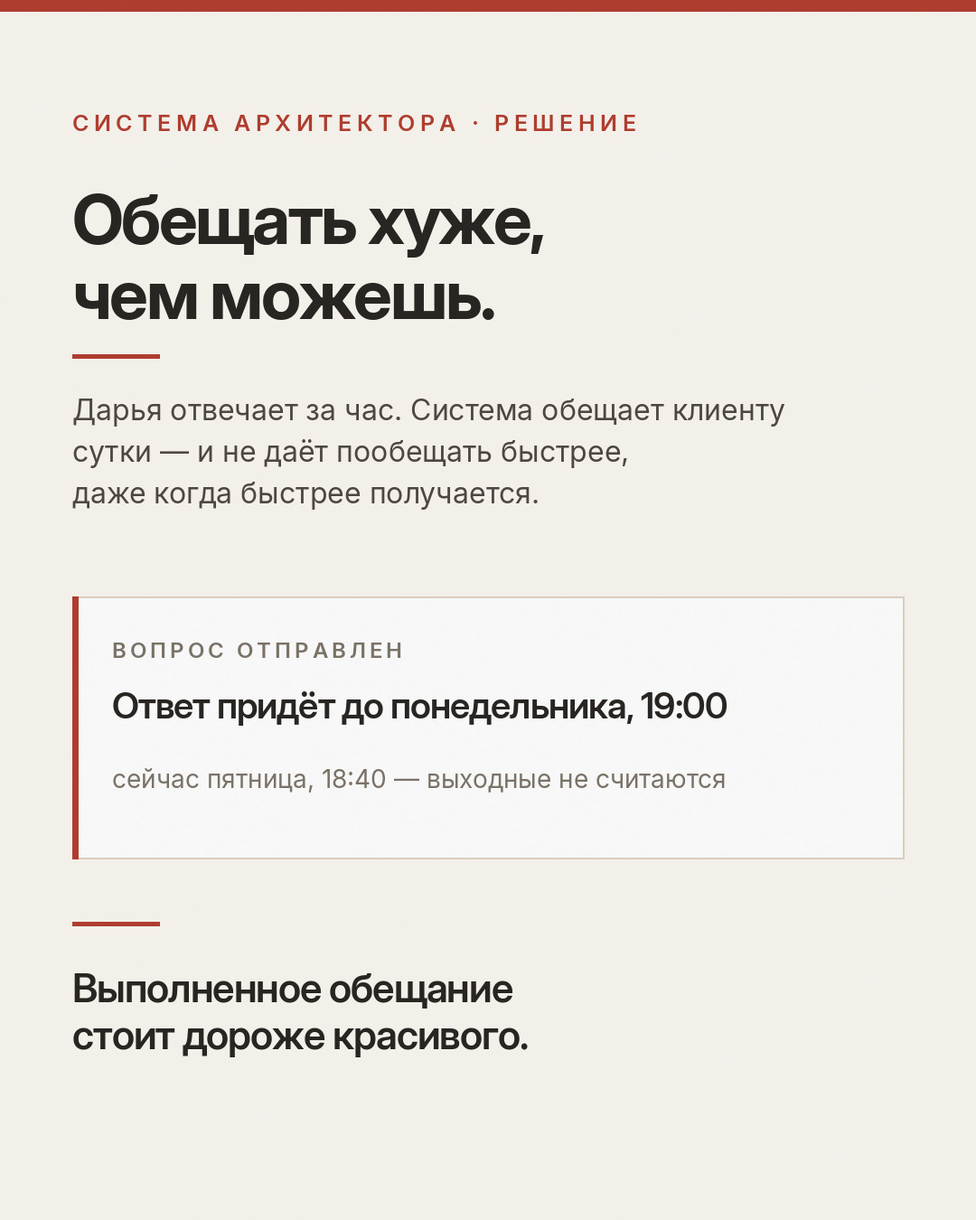
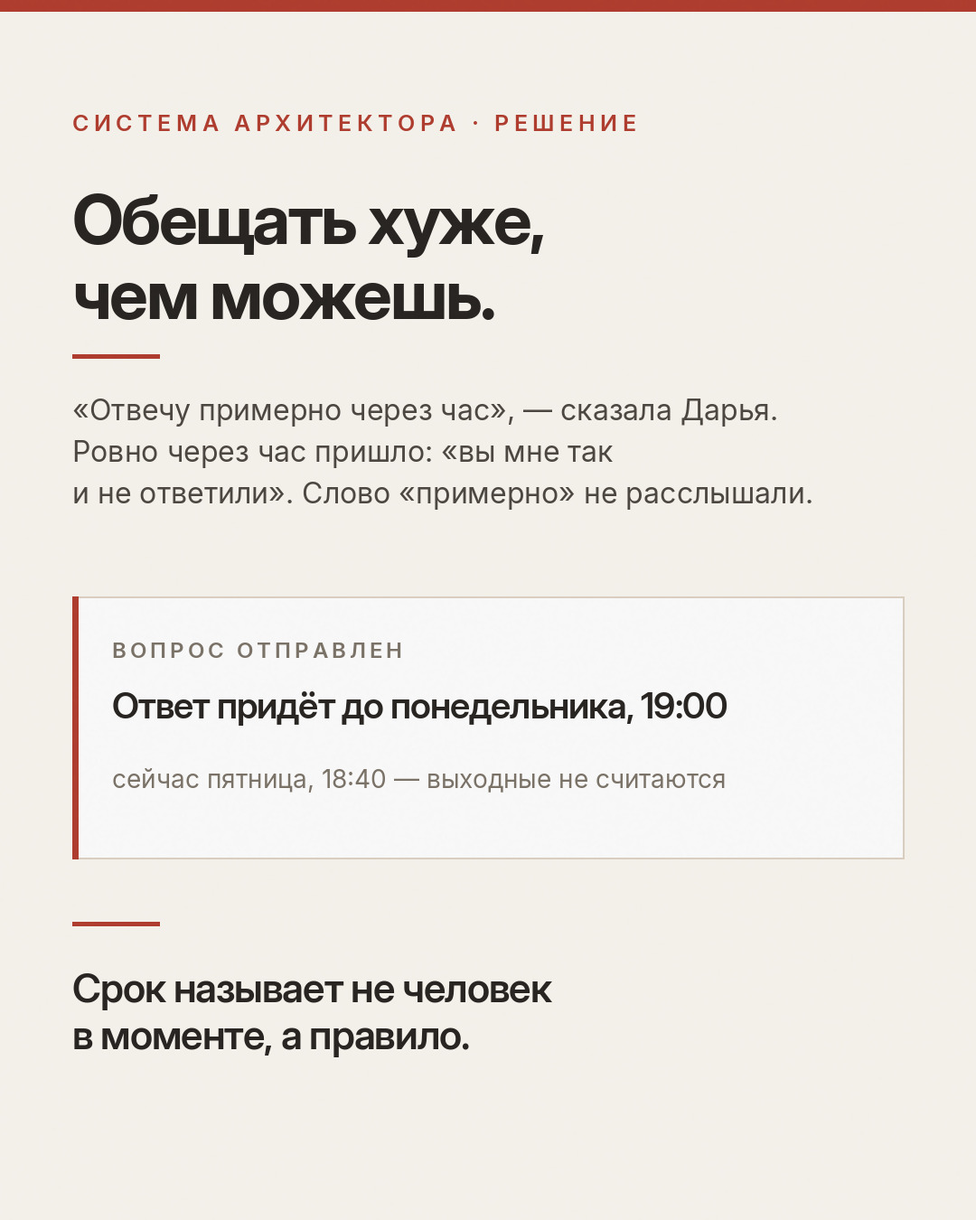
История с будильником рассказана точно, и урок в ней другой
Час назвала сама Дарья — «отвечу примерно через час», — а клиентка
засекла время и через час написала, что ответа нет. В коротком пересказе
это выглядело так, будто клиентка неадекватная, и весь урок пропадал.

Поворот меняет вывод целиком: виноват не клиент. В разговоре человек
всегда обещает лучше, чем может, — хорошим хочется быть сейчас,
а выполнять будет он же, уставший и с двумя другими проектами. Отсюда
правило: срок называет не человек в моменте, а регламент.

Поправлена и документация системы: в docs/03 история была записана
коротко, и следующий, кто её прочтёт, повторил бы ту же ошибку.

Claude-Session: https://claude.ai/code/session_01PW735Z2KYFykvmKHJc4ehd

Changed region(s): [[0.0611, 0.3111, 0.825, 0.4356], [0.0611, 0.7778, 0.5806, 0.8711]]

diff --git a/marketing/make_assets.py b/marketing/make_assets.py
@@ -643,7 +643,7 @@ def card_reglament():
     y += 30
     rule(d, CM, y, 96, BRAND, h=5)
     y += 42
-    block(d, "Дарья отвечает за час. Система обещает клиенту\nсутки — и не даёт пообещать быстрее,\nдаже когда быстрее получается.",
+    block(d, "«Отвечу примерно через час», — сказала Дарья.\nРовно через час пришло: «вы мне так\nи не ответили». Слово «примерно» не расслышали.",
           font(T_REG, 32), (CM, y, CW), INK_2, leading=1.44, tag="reg-t")
 
     # Кусок экрана: то, что видит заказчик в момент отправки вопроса.
@@ -657,7 +657,7 @@ def card_reglament():
           font(T_REG, 28), (bx + 44, by + 184, bw - 88), MUTED, leading=1.3, tag="reg-ui2")
 
     rule(d, CM, 1020, 96, BRAND, h=5)
-    block(d, "Выполненное обещание\nстоит дороже красивого.",
+    block(d, "Срок называет не человек\nв моменте, а правило.",
           font(D_SEMI, 44), (CM, 1066, CW), INK, leading=1.2, tracking=-1, tag="reg-q")
 
     save(im, "post-reglament.jpg")
@@ -675,7 +675,7 @@ def story_reglament():
           (M, 340, 1080 - 2 * M), INK, leading=1.1, tracking=-2.6, tag="rsty-h")
 
     y = 580
-    y = block(d, "Дарья отвечает за час.\nСистема обещает заказчику сутки —\nи не даёт пообещать быстрее.",
+    y = block(d, "«Отвечу примерно через час»,\nсказала Дарья. Ровно через час пришло:\n«вы мне так и не ответили».",
               font(T_REG, 38), (M, y, 1080 - 2 * M), INK_2, leading=1.46, tag="rsty-t")
 
     bx, by, bw, bh = M, 820, 1080 - 2 * M, 300
@@ -686,11 +686,11 @@ def story_reglament():
           font(D_SEMI, 44), (bx + 44, by + 104, bw - 88), INK, leading=1.2, tracking=-1, tag="rsty-ui")
 
     y = 1200
-    y = block(d, "Потому что обещание, выполненное всегда,\nстоит дороже обещания красивого.",
+    y = block(d, "Теперь срок называет не Дарья в моменте,\nа регламент — один и тот же для всех.",
               font(T_SEMI, 38), (M, y, 1080 - 2 * M), BRAND_600, leading=1.42, tag="rsty-a")
 
     d.rectangle([M, 1400, 1080 - M, 1660], fill=MARKER)
-    block(d, "Ответил в воскресенье один раз —\nи с этого дня этого ждут.\nА молчание читается как игнор.",
+    block(d, "«Примерно через час» — это\nне оценка. Это обещание,\nи его засекут.",
           font(T_SEMI, 36), (M + 44, 1458, 1080 - 2 * M - 88), INK, leading=1.42, tag="rsty-m")
 
     save(im, "story-reglament.jpg")

diff --git a/marketing/06-пост-регламент.md b/marketing/06-пост-регламент.md
@@ -9,20 +9,27 @@
 
 ## Telegram — основная версия
 
-> **Почему система архитектора обещает хуже, чем архитектор работает**
+> **Обещать хуже, чем можешь**
 >
-> У Дарьи, для которой я собирал систему, была клиентка. Она ставила
-> будильник на час после своего сообщения — и когда он звонил, писала:
-> «Дарья, вы мне так и не ответили».
+> У Дарьи, для которой я собирал систему, была клиентка. Ничего
+> ужасного она не делала. Она просто поверила на слово.
 >
-> Час.
+> Дарья писала ей: «отвечу примерно через час». Клиентка засекала время.
+> Ровно через час приходило: «Дарья, вы мне так и не ответили».
 >
-> Смешно ровно до того момента, пока это не случается с вами. Дальше
-> начинается настоящая ловушка: ответить нельзя и не ответить нельзя.
-> Ответишь — подтвердишь, что ты на связи за час, и теперь так будет
-> всегда. Не ответишь — ты игнорируешь человека, который заплатил.
+> Слово «примерно» не расслышал никто. Оно вообще не работает —
+> ни в одном разговоре с клиентом.
 >
-> Это не лечится характером. Это лечится фразой, написанной заранее.
+> **Обратите внимание, кто здесь виноват.** Не клиентка. Час назвала
+> сама Дарья. В моменте, из желания быть хорошей, без всякого злого
+> умысла — просто прикинула вслух.
+>
+> Это и есть ловушка, в которую попадают все, кто работает на себя:
+> **в разговоре человек всегда обещает лучше, чем может.** Хорошим
+> хочется быть сейчас. А выполнять будет он же — через три часа,
+> уставший, с двумя другими проектами и сорванным созвоном.
+>
+> Лечится это не характером. Лечится тем, что срок называет не человек.
 >
 > **Вот регламент Дарьи. Он стоит на сайте и в договоре дословно:**
 >
@@ -42,80 +49,78 @@
 >
 > Каждый, кто работает на себя, знает эту яму. Один раз ответил
 > в воскресенье по доброй воле — и с этого дня от тебя этого ждут.
-> Подарок за две недели превращается в норму, а потом в обязанность,
-> а потом твоё молчание в воскресенье читается как хамство.
+> Подарок через две недели становится нормой, ещё через месяц —
+> обязанностью, а потом твоё молчание в воскресенье читается как хамство.
 >
 > Одна оговорка возвращает воскресный ответ в статус подарка. Навсегда.
 >
 > **Дальше эта фраза стала кодом.**
 >
 > Когда заказчик отправляет вопрос через кабинет, он сразу видит срок
-> ответа. Не «мы свяжемся с вами» — конкретное «ответ придёт
+> ответа. Не «мы свяжемся с вами», а конкретное «ответ придёт
 > до понедельника, 19:00».
 >
-> Считается это не календарным временем, а рабочим. Вопрос в пятницу
-> в 18:40 получает срок до понедельника вечера, потому что суббота
-> и воскресенье в счёт не идут. Заказчик видит это в момент отправки,
-> а не узнаёт в понедельник, когда уже успел обидеться.
+> Считается рабочее время, а не календарное. Вопрос в пятницу в 18:40
+> получает срок до понедельника вечера, потому что суббота и воскресенье
+> в счёт не идут. Заказчик видит это в момент отправки — а не узнаёт
+> в понедельник, когда уже успел обидеться.
 >
 > Уведомления Дарье в выходные не уходят вообще. Накопились — придут
 > в понедельник в десять утра. Не потому что она не посмотрит телефон,
-> а потому что система не должна создавать повод посмотреть.
+> а потому что система не должна создавать повод его посмотреть.
 >
 > **И главное, из-за чего я вообще это пишу.**
 >
 > Система **никогда не обещает быстрее регламента** — даже когда Дарья
-> фактически отвечает за час. Это выглядит как самострел: у нас есть
-> преимущество, и мы его прячем.
+> фактически отвечает за час. Выглядит как самострел: есть преимущество,
+> и мы его прячем.
 >
-> Но посчитайте, что происходит в двух вариантах.
+> Но посчитайте оба варианта.
 >
-> Обещали час, ответили за час — норма, никто не заметил. Обещали час,
-> ответили за три — вы подвели.
+> Пообещал час, ответил за час — норма, никто не заметил. Пообещал час,
+> ответил за три — подвёл.
 >
-> Обещали сутки, ответили за час — вы молодец. Обещали сутки, ответили
-> за двадцать — вы сдержали слово.
+> Пообещал сутки, ответил за час — молодец. Пообещал сутки, ответил
+> за двадцать — сдержал слово.
 >
-> В первом варианте вы можете только не проиграть. Во втором вы можете
-> только выиграть. Разница не в скорости работы — скорость одна и та же.
-> Разница в том, что вы пообещали.
+> В первом варианте можно только не проиграть. Во втором — только
+> выиграть. Скорость работы одна и та же. Разница исключительно в том,
+> что было обещано.
 >
-> **Выполненное обещание стоит дороже красивого.** Это относится
-> не только к срокам ответа: к датам сдачи, к смете, к «да, успею».
-> Любое обещание, которое вы даёте от хорошего настроения, вы потом
-> выполняете в плохом.
+> **И обещание в системе Дарьи даёт не человек.** Его даёт правило,
+> написанное один раз, в спокойный день, когда никто не смотрит
+> с ожиданием и не хочется быть хорошим прямо сейчас.
 >
-> Поэтому в системе Дарьи обещания даёт не человек. Их даёт правило,
-> написанное один раз в спокойный день.
+> Такое правило можно написать себе сегодня. Бесплатно, за десять минут,
+> без всякой системы. Система нужна только для того, чтобы потом
+> не приходилось его помнить.
 
 ---
 
 ## Instagram — короче
 
-> **Клиентка ставила будильник на час после своего сообщения. Когда он
-> звонил, писала: «Вы мне так и не ответили».**
+> **«Отвечу примерно через час», — написала Дарья клиентке.**
 >
-> Час.
+> Клиентка засекла время. Ровно через час пришло: «Дарья, вы мне так
+> и не ответили».
 >
-> Ловушка тут в том, что ответить нельзя и не ответить нельзя. Ответишь —
-> подтвердишь, что ты на связи за час, и теперь так всегда. Не ответишь —
-> игнорируешь человека, который заплатил.
+> Слово «примерно» не расслышал никто. Оно вообще не работает.
 >
-> Лечится не характером, а фразой, написанной заранее. У Дарьи
-> в регламенте стоит: «иногда я отвечаю в нерабочее время, но это
-> не правило, а исключение». Одна оговорка возвращает воскресный ответ
-> в статус подарка — навсегда.
+> И обратите внимание, кто виноват: не клиентка. Час назвала сама
+> Дарья — в моменте, из желания быть хорошей. Это ловушка всех, кто
+> работает на себя: в разговоре человек всегда обещает лучше, чем может.
+> Хорошим хочется быть сейчас, а выполнять будет он же — уставший
+> и с двумя другими проектами.
 >
-> В системе это стало кодом: заказчик видит срок ответа в момент
-> отправки вопроса, и считается рабочее время, а не календарное.
-> Пятница, 18:40 → «ответ придёт до понедельника, 19:00».
+> Поэтому в её системе срок называет не человек, а правило. Заказчик
+> видит его в момент отправки вопроса, считается рабочее время:
+> пятница, 18:40 → «ответ придёт до понедельника, 19:00».
 >
-> И главное: система никогда не обещает быстрее регламента — даже когда
-> Дарья отвечает за час.
+> И система никогда не обещает быстрее регламента, даже когда Дарья
+> отвечает за час.
 >
-> Обещали час, ответили за час — норма. Обещали сутки, ответили за час —
-> вы молодец. Скорость одна и та же. Разница только в том,
-> что вы пообещали.
+> Пообещал час, ответил за час — норма. Пообещал сутки, ответил за час —
+> молодец. Скорость одна. Разница только в обещании.
 >
 > #малыйбизнес #системадлябизнеса #предприниматель #клиентскийсервис
 
@@ -125,28 +130,33 @@
 
 Берите версию для Telegram целиком и добавьте в конце вопрос:
 
-> А у вас есть такое написанное правило? Или каждый раз решаете заново,
-> отвечать ли в воскресенье?
+> А вы называете сроки вслух или у вас есть написанное правило?
+> И сколько раз «примерно через час» превращалось в проблему?
 
 ---
 
 ## Сторис-анонс
 
 `story-reglament.jpg` + стикер-ссылка на пост.
-Жёлтый маркер внизу кадра — про ловушку доброй воли, это самая
-пересказываемая мысль поста.
+Жёлтый маркер внизу кадра — «„примерно через час“ это не оценка,
+это обещание, и его засекут». Самая пересказываемая мысль поста.
 
 ---
 
 ## Почему выбран именно этот материал
 
-В репозитории десятки решений, но большинство из них интересны
-разработчику, а не владельцу бизнеса. Это — редкий случай, когда
-совпало три вещи:
+Совпали три условия из правила отбора:
 
 1. **Живая история**, которую узнаёт каждый, кто работает на себя.
+   Причём поворот в ней неожиданный: виноват не клиент.
 2. **Неочевидное решение**: обещать хуже, чем можешь, выглядит
    как ошибка, пока не посчитаешь оба варианта.
-3. **Применимо без системы.** Читатель может написать такую фразу
-   себе сегодня, бесплатно. Пост, который что-то даёт даром,
+3. **Применимо без покупки.** Читатель может написать себе такое
+   правило сегодня и бесплатно. Пост, который что-то даёт даром,
    продаёт лучше поста, который только обещает.
+
+**Правка по ходу дела.** В `docs/03-процесс.md` эта история была
+записана короче — «клиентка, которая ставит будильник на час». Из такой
+формулировки выходит, что клиентка неадекватная, и весь урок пропадает:
+на самом деле час назвала сама Дарья. Документация поправлена в том же
+коммите — иначе следующий, кто её прочтёт, повторит ту же ошибку.

diff --git a/docs/03-процесс.md b/docs/03-процесс.md
@@ -207,10 +207,17 @@
 
 Здесь важна каждая часть, и сокращать её нельзя.
 
-**«В течение суток», а не «сразу».** Это и есть ответ на историю
-с клиенткой, которая ставит будильник на час и пишет «Дарья, вы мне так
-и не ответили». Написанное и подтверждённое правило снимает претензию
-до того, как она возникла, — и делает это без конфликта.
+**«В течение суток», а не «сразу».** Это ответ на историю с клиенткой,
+которая писала ровно через час. Важно, кто назвал этот час: **его назвала
+сама Дарья** — «отвечу примерно через час». Слово «примерно» не расслышал
+никто, клиентка засекала время и через час писала «Дарья, вы мне так
+и не ответили».
+
+Отсюда правило: **срок называет не человек в моменте, а регламент.**
+В разговоре человек всегда обещает лучше, чем может: хорошим хочется
+быть сейчас, а выполнять будет он же — уставший и с тремя другими
+проектами. Написанное и подтверждённое правило снимает претензию
+до того, как она возникла, и делает это без конфликта.
 
 **«Это не правило, а исключение»** — самая ценная строка. Она закрывает
 ловушку, в которую попадают все, кто отвечает по доброй воле в воскресенье:
